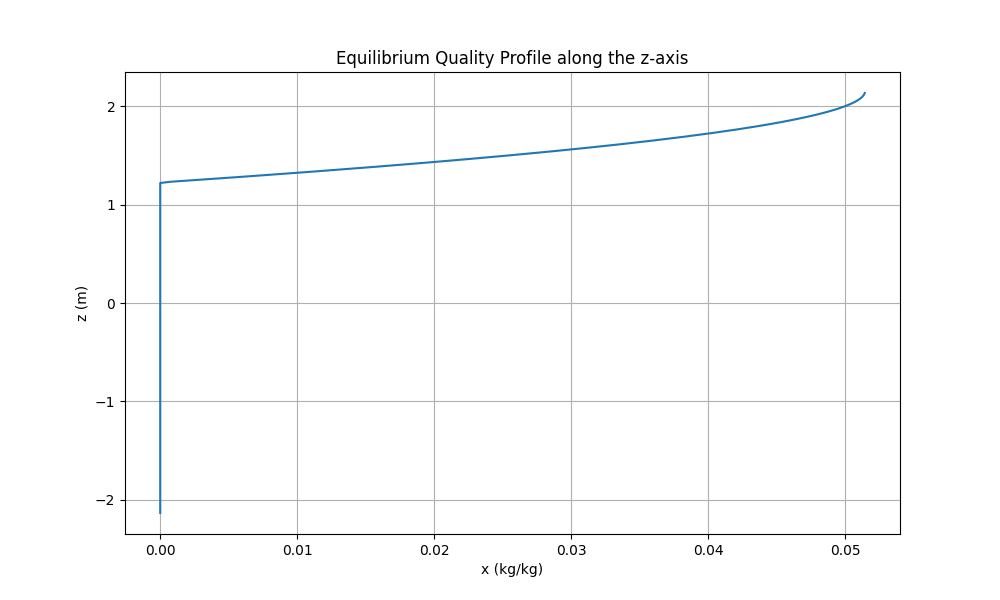
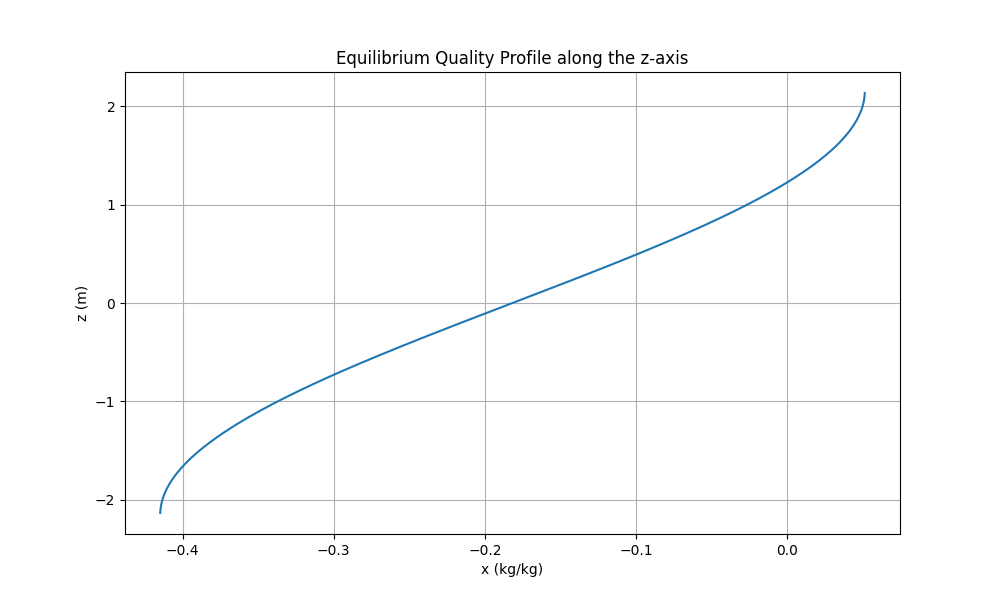
Codice corretto, solo da ripulire

diff --git a/assignment2/assignment2.py b/assignment2/assignment2.py
@@ -1,30 +1,20 @@
+import os
 import numpy as np
 import matplotlib.pyplot as plt
 import CoolProp.CoolProp as CP
 from scipy.interpolate import interp1d
 from scipy.integrate import cumulative_trapezoid, trapezoid
-from scipy.special import j0
-import os
-from unit_conversions import psia_to_pa, lbm_per_hr_to_kg_per_s, fahrenheit_to_celsius, inches_to_meters, square_feet_to_square_meters
 from scipy.optimize import fsolve
+from unit_conversions import psia_to_pa, lbm_per_hr_to_kg_per_s, fahrenheit_to_celsius, inches_to_meters, square_feet_to_square_meters
 
 
 # 1) VOLUMETRIC HEAT GENERATION RATE
 def volumetric_heat_generation(z, r, P_nom, n_rods, D, H_active, R_eq, F_q):
     """
-    Calcola il profilo di generazione di calore volumetrico lungo l'asse z.
-    
-    Parameters:
-    - z: array delle posizioni assiali (m)
-    - r: array dei raggi (m)
-    - P_nom: potenza nominale (W)
-    - n_rods: numero di barre combustibili
-    - D_in_clad: diametro interno della guaina (m)
-    - H_active: altezza attiva del core (m)
-    - F_q: fattore di picco del flusso termico
-    
-    Returns:
-    - qv_profile: profilo di generazione di calore volumetrico (W/m^3)
+    Profilo di generazione di calore volumetrico lungo z (chopped cosine).
+    D = diametro pellet (m). r, R_eq servono solo al termine radiale di Bessel
+    (commentato: si lavora nel sub-canale centrale, r=0 -> J0(0)=1).
+    Ritorna: qv_profile (W/m^3), H_e (m), q_avg (W/m^3), q_v_max (W/m^3).
     """
     Tot_power = P_nom * 0.974  # W (potenza totale generata)
     q_avg = Tot_power / (n_rods * np.pi * (D/2)**2 * H_active)  # W/m^3
@@ -65,24 +55,9 @@ def average_mass_velocity(m_flow_eff, A_flow_eff):
 # 3) COOLANT SPECIFIC ENTHALPY
 def coolant_specific_enthalpy(z, G_avg, A_c, q_v_max, H_e, D_pellet, p_sys, H_active, T_in):
     """
-    Calcola il profilo di entalpia specifica del refrigerante lungo l'asse z.
-    
-    Parameters:
-    - z: array delle posizioni assiali (m)
-    - G_avg: velocità di massa media (kg/(m^2 s))
-    - A_c: area di flusso per canale (m^2)
-    - w: pitch tra le barre (m)
-    - Dout_clad: diametro esterno della guaina (m)
-    - D_pellet: diametro del pellet (m)
-    - p_sys: pressione del sistema (Pa)
-    - P_nom: potenza nominale (W)
-    - n_rods: numero di barre combustibili
-    - D_in_clad: diametro interno della guaina (m)
-    - H_active: altezza attiva del core (m)
-    - F_q: fattore di picco del flusso termico
-    
-    Returns:
-    - h_profile: profilo di entalpia specifica (J/kg)
+    Profilo di entalpia specifica del refrigerante lungo z (integrale analitico
+    della distribuzione chopped cosine).
+    Ritorna: h_profile (J/kg), W_hc (kg/s, portata per sub-canale).
     """
     W_hc = G_avg * A_c  # kg/s (portata per canale)
     A_fuel = np.pi / 4 * D_pellet**2  # m^2 (area del combustibile)
@@ -100,17 +75,11 @@ def coolant_specific_enthalpy(z, G_avg, A_c, q_v_max, H_e, D_pellet, p_sys, H_ac
 # 4) TEMPERATURE PROFILE
 def temperature_profile(h_profile, p_sys):
     """
-    Calcola il profilo di temperatura del refrigerante lungo l'asse z.
-    
-    Parameters:
-    - h_profile: profilo di entalpia specifica (J/kg)
-    - p_sys: pressione del sistema (Pa)
-    
-    Returns:
-    - T_profile: profilo di temperatura (°C)
+    Profilo di temperatura del refrigerante (°C) da h e p, clampato a T_sat.
+    Ritorna: T_profile (°C), first_sat_idx (indice del primo nodo a saturazione).
     """
     T_profile = CP.PropsSI('T', 'H', h_profile, 'P', p_sys, 'Water') - 273.15  # °C
-        # La temperatura non può superare quella di saturazione nel calcolo dell'entalpia
+    # La temperatura non può superare quella di saturazione
     T_sat = CP.PropsSI('T', 'P', p_sys, 'Q', 0, 'Water') - 273.15 # °C
     T_profile = np.minimum(T_profile, T_sat)
     
@@ -136,21 +105,20 @@ def equilibrium_quality_profile(h_profile, p_sys):
 # 6) CALCULATION OF THE OUTER CLADDING TEMPERATURE
 
 def safe_props(prop, T_K, P, T_sat_K):
-        try:
-            # Riduciamo leggermente T per evitare conflitti con la curva di saturazione
-            if T_K >= T_sat_K - 0.01:
-                return CP.PropsSI(prop, 'P', P, 'Q', 0, 'Water')
-            return CP.PropsSI(prop, 'T', T_K, 'P', P, 'Water')
-        except ValueError:
+    """Proprietà CoolProp robusta: vicino/oltre saturazione usa il liquido saturo."""
+    try:
+        if T_K >= T_sat_K - 0.01:
             return CP.PropsSI(prop, 'P', P, 'Q', 0, 'Water')
-        
-### CONTROLLARE PROFILO T, TROPPO VERSO IL BASSO
+        return CP.PropsSI(prop, 'T', T_K, 'P', P, 'Water')
+    except ValueError:
+        return CP.PropsSI(prop, 'P', P, 'Q', 0, 'Water')
+
+
 def T_outer_cladding_profile(T_sat_K, G_avg, D_eq, T_profile, p_sys, C, q_flux):
     """
-    Calcola il coefficiente di scambio termico (h) usando la legge di Dittus-Boelter.
-    
+    Temperatura cladding esterna: Dittus-Boelter monofase vs Jens-Lottes (boiling),
+    si prende il minimo. Ritorna anche l'indice di ONB.
     """
-
     # Vettorizzazione iterando sui valori di T_profile (con conversione in Kelvin)
     mu_profile = np.array([safe_props('V', T + 273.15, p_sys, T_sat_K) for T in T_profile])
     k_profile = np.array([safe_props('L', T + 273.15, p_sys, T_sat_K) for T in T_profile])
@@ -301,34 +269,30 @@ def void_fraction(p_sys, D_eq, zz, i_ONB, i_Det, G_avg, X_flow):
     return void_fraction_profile_ZF, void_fraction_profile_F, void_fraction_profile_M
     
 # 7) T INNER CLADDING TEMPERATURE PROFILE
-def k_zircaloy(T):
-    # Esempio di correlazione inventata (sostituisci con quella del testo se c'è!)
-    # T in °C, restituisce W/mK
-    return 11.45 + 1.425e-2 * T
-
 def T_inner_cladding_profile(T_co, q_vol, A_f, D_ci, D_co):
-        T_inner = np.zeros_like(T_co)
+    """
+    T cladding interna da conduzione in cilindro cavo con k_Zr = A + B*T:
+    integrando, A*(T_ci-T_co) + B/2*(T_ci^2-T_co^2) = q_v*A_f/(2pi)*ln(D_co/D_ci).
+    Equazione quadratica in T_ci, si prende la radice fisica positiva.
+    """
+    T_inner = np.zeros_like(T_co)
+    A = 11.45      # k_Zr = A + B*T  (W/m°C), WCAP 3269-4-1
+    B = 1.425e-2
 
-        for i in range(len(T_co)):
-            T_co_loc = T_co[i]
-            q_vol_loc = q_vol[i]
+    for i in range(len(T_co)):
+        T_co_loc = T_co[i]
+        rhs = q_vol[i] * A_f / (2 * np.pi) * np.log(D_co / D_ci)
 
-            rhs = q_vol_loc * A_f / (2 * np.pi) * np.log(D_co / D_ci)
+        # (B/2)*T_ci^2 + A*T_ci + c = 0
+        a = B / 2
+        b = A
+        c = -rhs - (A * T_co_loc + B/2 * T_co_loc**2)
+        delta = b**2 - 4*a*c
+        if delta < 0:
+            raise ValueError("Delta negativo, nessuna soluzione reale per T_inner")
+        T_inner[i] = (-b + np.sqrt(delta)) / (2*a)
 
-            A = 11.45
-            B = 1.425e-2
-
-            # Risolvo l'equazione non lineare per T_inner
-            a = B/2
-            b = A
-            c = -rhs - (A * T_co_loc + B/2 * T_co_loc**2)
-            delta = b**2 - 4*a*c
-            if delta < 0:
-                raise ValueError("Delta negativo, nessuna soluzione reale per T_inner") 
-            # Bisogna usare la radice positiva per ottenere il valore fisico corretto
-            T_inner[i] = (-b + np.sqrt(delta)) / (2*a)
-
-        return T_inner
+    return T_inner
 
 # 8) T PELLET SURFACE TEMPERATURE PROFILE
 def pellet_thermal_conductivity(T):
@@ -446,7 +410,7 @@ def calculate_fuel_centerline_temperature(T_f_S_profile, q_vol_profile, A_fuel):
     T_centerline = np.zeros_like(T_f_S_profile)
     
     # Fattore di depressione del flusso (di solito 1 se non specificato altrimenti)
-    f_robertson = 1.0 
+    f_robertson = 0.965 
     
     for i in range(len(T_f_S_profile)):
         T_surface_loc = T_f_S_profile[i]
@@ -491,7 +455,8 @@ def solve_pellet_radial_temperature(z,q_vol_profile,T_surface,R_pellet,pellet_th
         dT/dr = 0          a r = 0
         T = T_surface(z)   a r = R_pellet
     """
-
+    f_rob = 0.965 # Robertson factor
+    q_vol_profile = q_vol_profile*f_rob
     r = np.linspace(0, R_pellet, Nr)
     dr = r[1] - r[0]
 
@@ -834,7 +799,7 @@ if __name__ == "__main__":
     # 5) Equilibrium quality
     plot_axial('5_equilibrium_quality.png', 'x (kg/kg)',
                'Equilibrium Quality Profile along the z-axis',
-               [{'x': x_eq_profile}])
+               [{'x': x_eq_completo}])
 
     # 6.1) Outer cladding temperature
     plot_axial('6.1_outer_cladding_temperature.png', 'Temperature (°C)',
